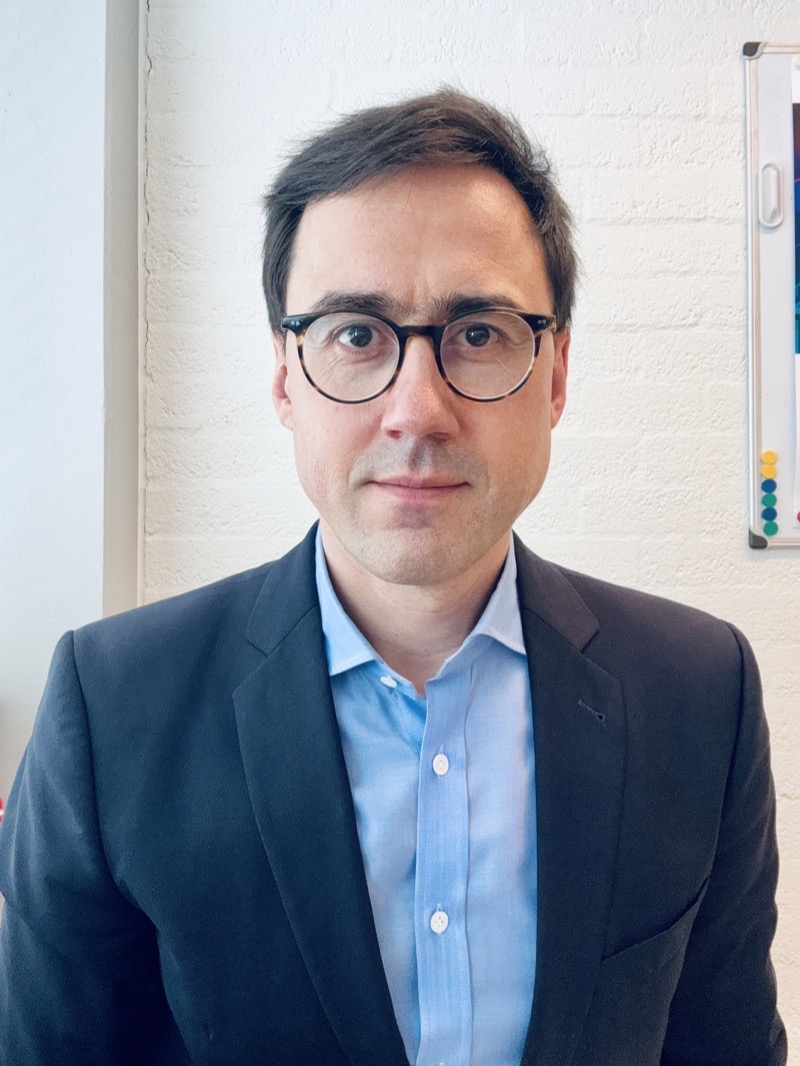
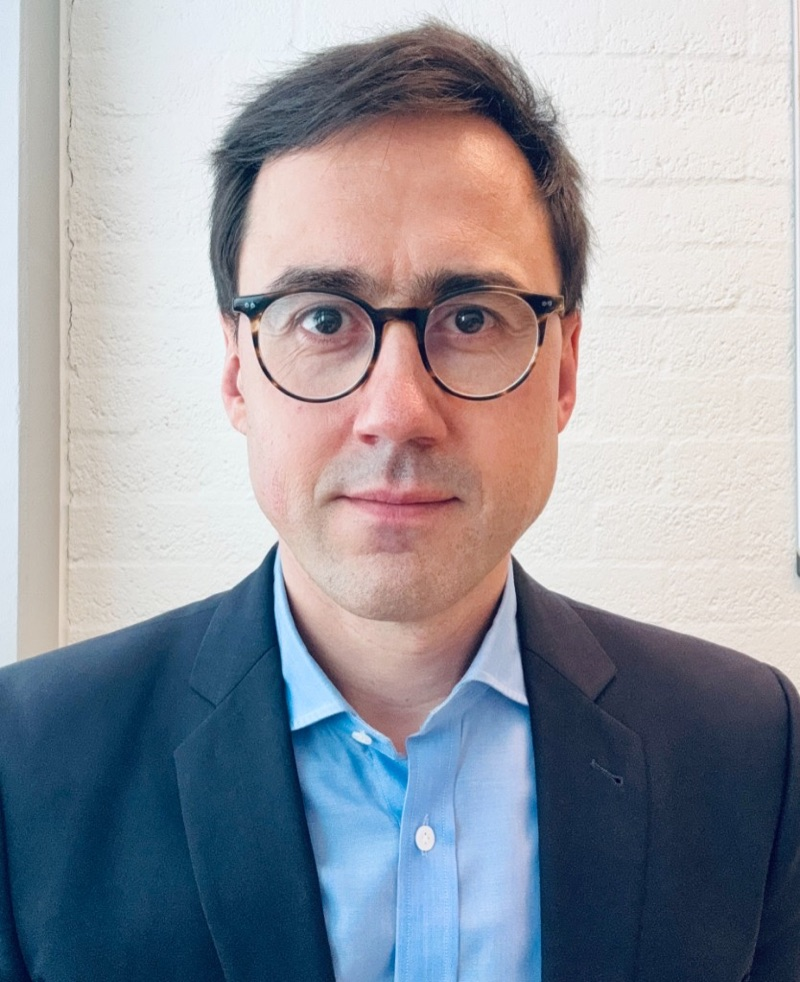
Update homepage portrait and refine publications formatting.
Replace the profile photo with the new office headshot and tidy publication citation formatting. Sync Gemfile.lock with the current Gemfile dependencies.

diff --git a/menu/publications.md b/menu/publications.md
@@ -5,10 +5,10 @@ permalink: /publications
 ---
 
 *Time-varying macroeconomic announcement risk,*\
-Michael Johannes, Norman J. Seeger, Jonathan R. Stroud, **Journal of Econometrics**, Volume 254, Part B, 2026, <https://doi.org/10.1016/j.jeconom.2026.106194>.
+Michael Johannes, Norman J. Seeger, Jonathan R. Stroud, 2026, **Journal of Econometrics**, Volume 254, Part B, <https://doi.org/10.1016/j.jeconom.2026.106194>.
 
 *Non-Standard Errors,*\
-Menkveld, A. J., Dreber, A., Holzmeister, F., Huber, J., Johanneson, M., Kirchler, M., Razen, M., Weitzel, U., Abad, D., Abudy, M., Adrian, T., Ait-Sahalia, Y., Akmansoy, O., Alcock, J., Alexeev, V., Aloosh, A., Amato, L., Amaya, D., Angel, J. J., Bach, A. & 321 others, , 24 Nov 2021, **Journal of Finance**, Volume 79, Number 3, 2024, 2339-2390.
+Menkveld, A. J., Dreber, A., Holzmeister, F., Huber, J., Johanneson, M., Kirchler, M., Razen, M., Weitzel, U., Abad, D., Abudy, M., Adrian, T., Ait-Sahalia, Y., Akmansoy, O., Alcock, J., Alexeev, V., Aloosh, A., Amato, L., Amaya, D., Angel, J. J., Bach, A. & 321 others, 24 Nov 2021, **Journal of Finance**, Volume 79, Number 3, 2024, 2339-2390.
 
 *A jumping index of jumping stocks? An MCMC analysis of continuous-time models for individual stocks,*\
 Pollastri, A., Rodrigues, P., Schlag C. & Seeger, N.J., 2023, In: **Journal of Empirical Finance**, Volume 70, 322-341.
